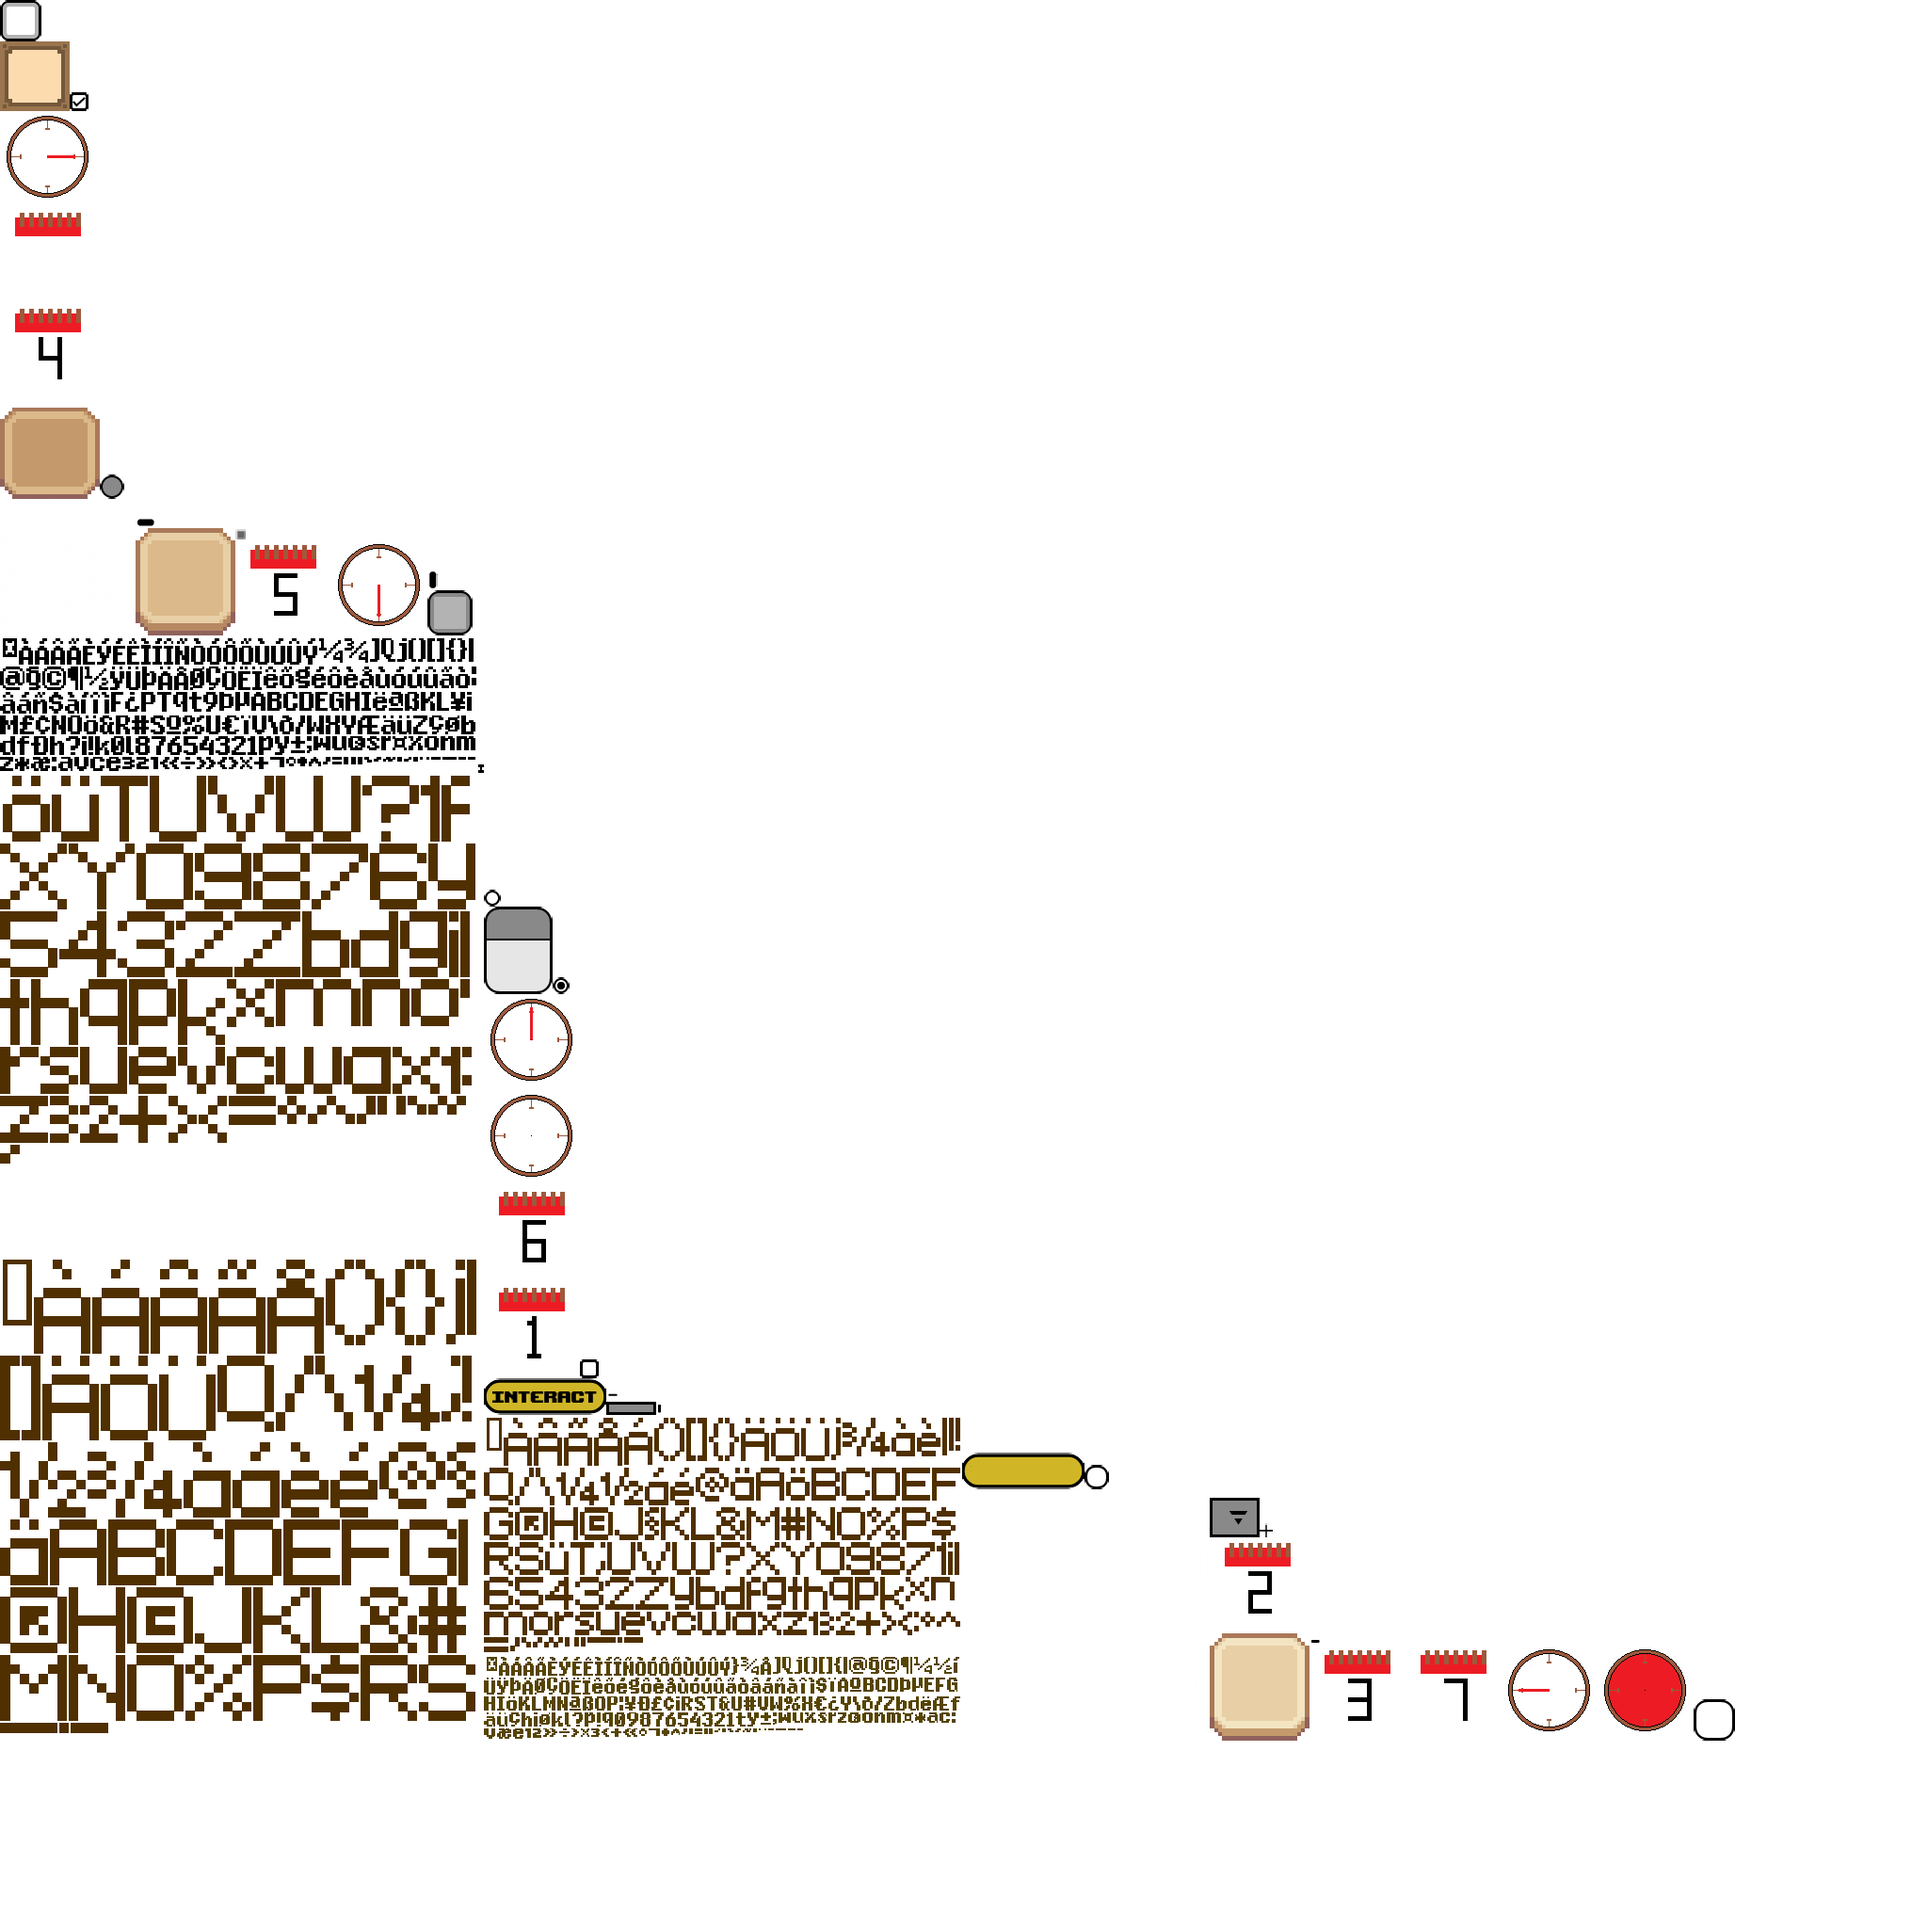
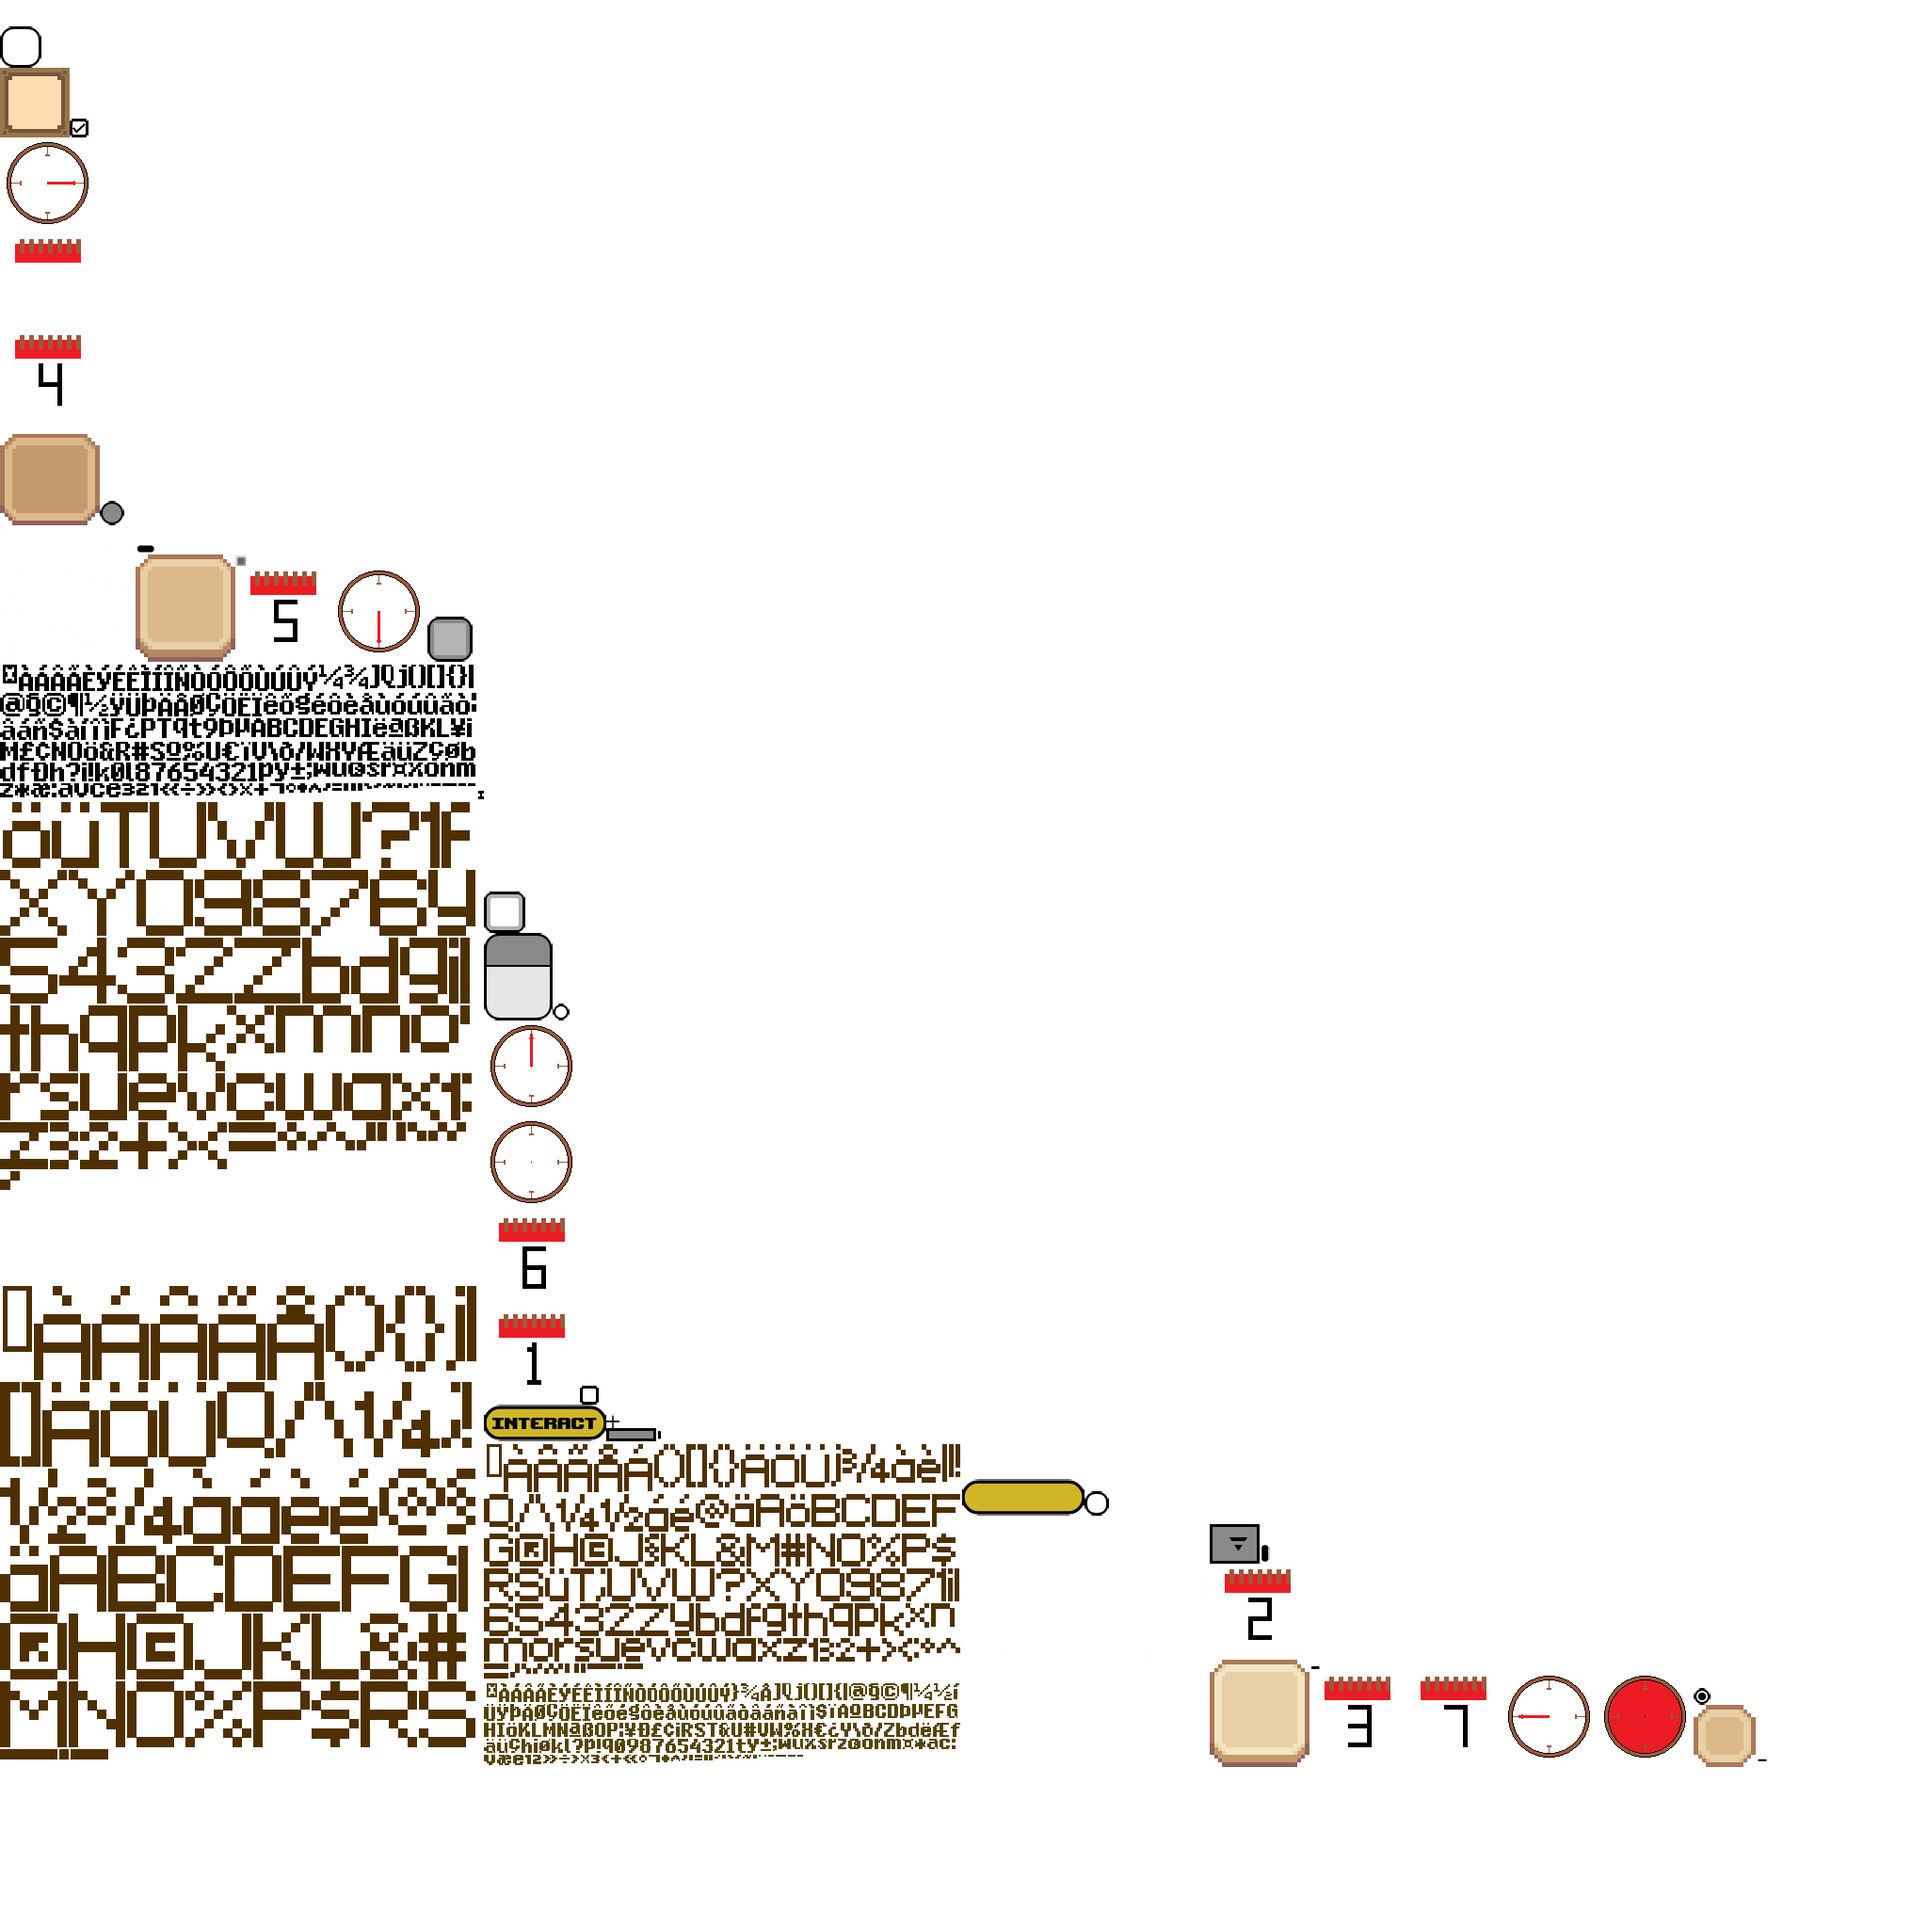
Added a window to the skin

Changed region(s): [[0.0, 0.0, 0.5625, 0.9375], [0.625, 0.75, 0.9062, 0.9375]]

diff --git a/core/src/com/heslingtonhustle/screens/MenuScreen.java b/core/src/com/heslingtonhustle/screens/MenuScreen.java
@@ -7,7 +7,9 @@ import com.badlogic.gdx.graphics.Texture;
 import com.badlogic.gdx.graphics.g2d.Batch;
 import com.badlogic.gdx.graphics.g2d.SpriteBatch;
 import com.badlogic.gdx.scenes.scene2d.Actor;
+import com.badlogic.gdx.scenes.scene2d.Group;
 import com.badlogic.gdx.scenes.scene2d.Stage;
+import com.badlogic.gdx.scenes.scene2d.actions.Actions;
 import com.badlogic.gdx.scenes.scene2d.ui.*;
 import com.badlogic.gdx.scenes.scene2d.utils.ChangeListener;
 import com.badlogic.gdx.utils.viewport.FitViewport;
@@ -70,6 +72,15 @@ public class MenuScreen implements Screen {
                 Gdx.app.exit();
             }
         });
+
+        // Rotated text
+        Group versionGroup = new Group();
+        versionGroup.setPosition(1000, 575);
+        stage.addActor(versionGroup);
+        Label versionText = new Label("V2.0", parentClass.skin, "button");
+        versionGroup.addActor(versionText);
+        versionGroup.addAction(Actions.rotateBy(-25));
+
     }
 
     @Override

diff --git a/core/src/com/heslingtonhustle/screens/PauseMenu.java b/core/src/com/heslingtonhustle/screens/PauseMenu.java
@@ -46,8 +46,7 @@ public class PauseMenu {
     }
 
     private void addOptions() {
-        TextButton resumeButton = new TextButton("Resume", skin
-        );
+        TextButton resumeButton = new TextButton("Resume", skin);
         optionsTable.add(resumeButton).fillX().uniformX().prefWidth(350);
         optionsTable.row().pad(10, 0, 10, 0);
         resumeButton.addListener(new ChangeListener() {

diff --git a/core/src/com/heslingtonhustle/renderer/HudRenderer.java b/core/src/com/heslingtonhustle/renderer/HudRenderer.java
@@ -79,7 +79,7 @@ public class HudRenderer implements Disposable {
         calendarImage.setScale(1f);
 
         // Dialogue box window
-        dialogueWindow = new Window("", skin);
+        dialogueWindow = new Window("", skin, "dialog");
         dialogueWindow.setSize(900, 200);
         dialogueWindow.setPosition((width - dialogueWindow.getWidth())/2, 20);
 
